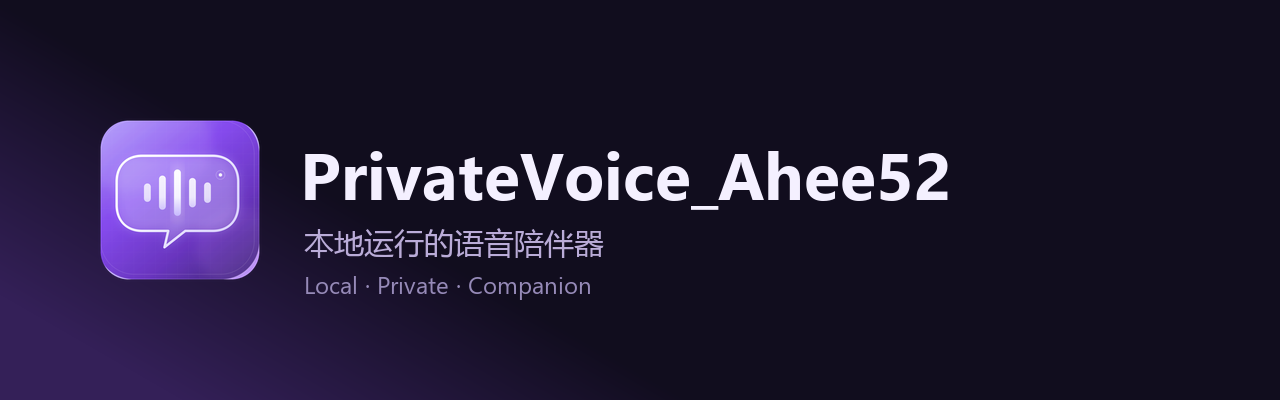
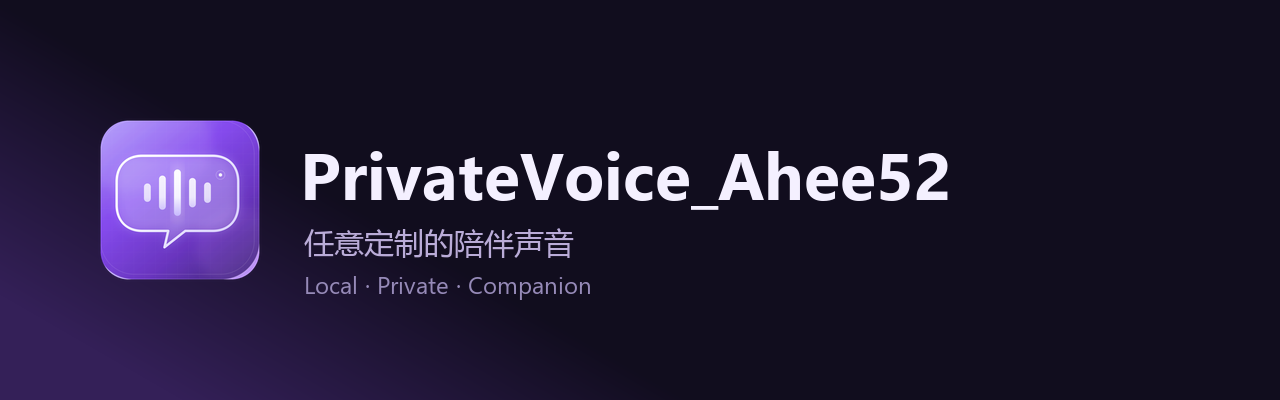
docs: 定位改为「任意定制的声音」，弱化中文限定
- 头图副标题：任意定制的陪伴声音
- 社交预览：任意定制的陪伴声音 · 多语可用 · 全离线
- README 中英 tagline 改为 any custom voice：用你有权使用的音色，说你习惯的语言

Changed region(s): [[0.2188, 0.57, 0.4688, 0.66]]

diff --git a/scripts/dev/make_icons_svg.py b/scripts/dev/make_icons_svg.py
@@ -135,7 +135,7 @@ def social(master: Image.Image) -> None:
            fill=(244, 240, 255))
     d.text((90, 392), "Local. Private. Yours.", font=font("segoeui.ttf", 33),
            fill=(188, 174, 218))
-    d.text((90, 450), "本地运行的语音陪伴器 · 多语可用 · 全离线",
+    d.text((90, 450), "任意定制的陪伴声音 · 多语可用 · 全离线",
            font=font("msyh.ttc", 25), fill=(154, 142, 188))
     im.convert("RGB").save(OUT / "social_preview.png")
     print("social exported")
@@ -149,7 +149,7 @@ def header(master: Image.Image) -> None:
     d = ImageDraw.Draw(im)
     d.text((300, 128), "PrivateVoice_Ahee52", font=font("segoeuib.ttf", 66),
            fill=(244, 240, 255))
-    d.text((304, 222), "本地运行的语音陪伴器", font=font("msyh.ttc", 30),
+    d.text((304, 222), "任意定制的陪伴声音", font=font("msyh.ttc", 30),
            fill=(186, 172, 216))
     d.text((304, 268), "Local · Private · Companion", font=font("segoeui.ttf", 24),
            fill=(150, 138, 184))

diff --git a/README.md b/README.md
@@ -4,7 +4,7 @@
 
 ![PrivateVoice_Ahee52](docs/assets/readme_header.png)
 
-**A local-first voice companion. Chinese first — and it holds a natural conversation in English, Japanese and Korean too. Local ASR, local LLM, GPT-SoVITS v4 voice cloning, audio never leaves your machine.**
+**Any voice you want, living on your own machine. Train or clone the voice you have permission to use, speak the language you actually speak, and it answers in that voice — local ASR, local LLM, GPT-SoVITS v4. Audio never leaves your machine.**
 
 Hold a hotkey, speak, and it answers in a cloned voice. Audio never leaves your machine.
 

diff --git a/README.zh.md b/README.zh.md
@@ -4,7 +4,7 @@
 
 ![PrivateVoice_Ahee52](docs/assets/readme_header.png)
 
-**一个本地优先的语音陪伴器。以中文为主，也能用英文、日文、韩文自然对话。本地识别、本地大模型、GPT-SoVITS v4 音色克隆，音频不出本机。**
+**任意定制的声音，住在这台电脑里。用你有权使用的音色，说你习惯的语言——本地识别、本地大模型、GPT-SoVITS v4 音色克隆，音频不出本机。**
 
 按住热键说话，它用克隆出来的声音回答你。音频不出本机。
 
